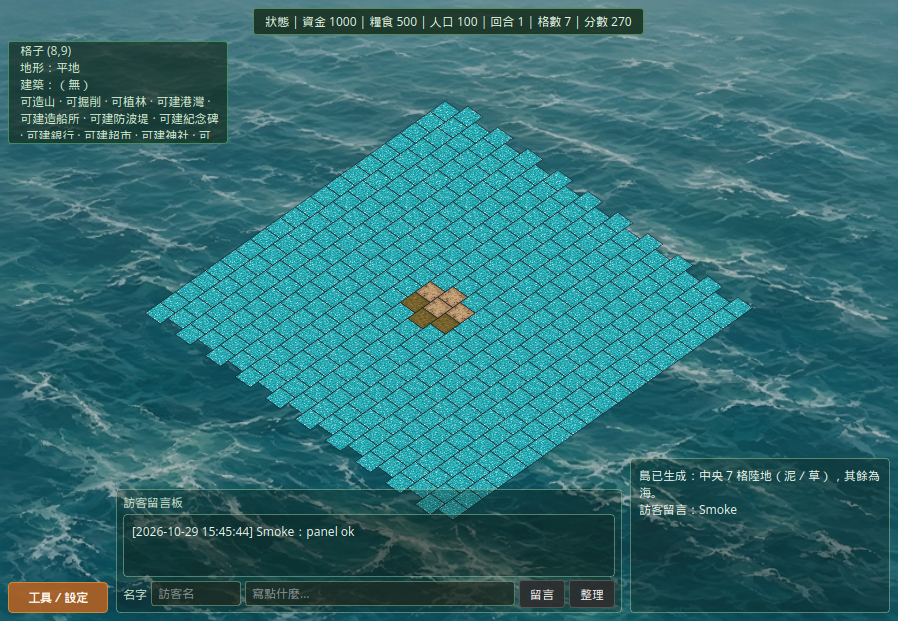
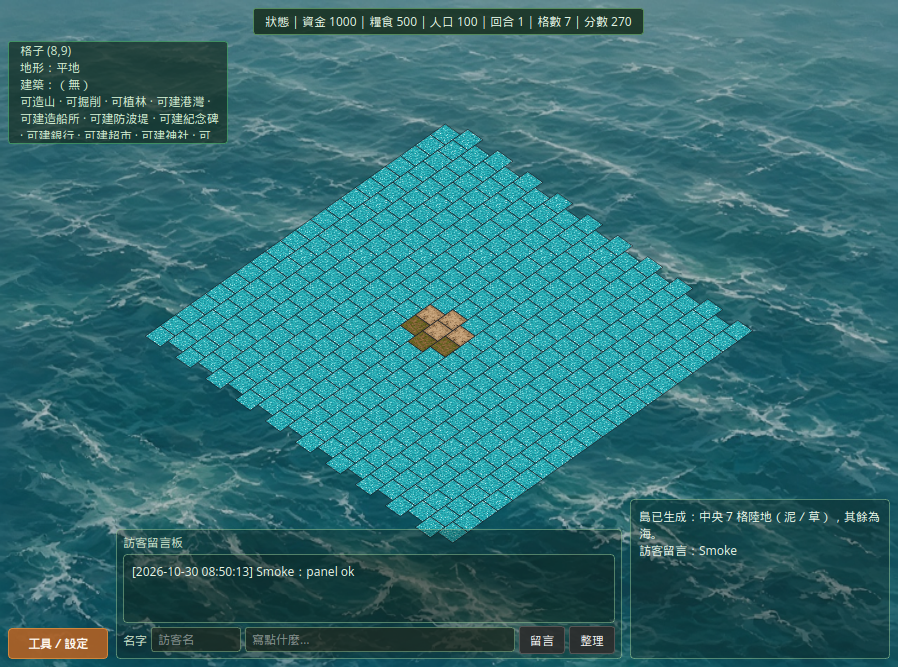
箱庭島：去掉開場解說列並修正工具鈕初始位置
移除頂部「點選格子…」說明橫幅；工具／設定改以 isHidden() 排版並在 showEvent 重算，避免首次開窗停在左上角。

diff --git a/hakoniwa/dialog.py b/hakoniwa/dialog.py
@@ -14,7 +14,7 @@ from pathlib import Path
 from typing import Any, Dict, List, Optional, Tuple
 
 from PySide6.QtCore import Qt, QEvent
-from PySide6.QtGui import QKeySequence, QShortcut, QResizeEvent
+from PySide6.QtGui import QKeySequence, QShortcut, QResizeEvent, QShowEvent
 from PySide6.QtWidgets import (
     QDialog,
     QFrame,
@@ -262,6 +262,12 @@ class HakoniwaMapHud(QWidget):
         super().resizeEvent(event)
         self._layout_overlays()
 
+    def showEvent(self, event: QShowEvent) -> None:  # noqa: N802
+        # Parent show can leave overlay geometry stale if resize did not fire
+        # after isHidden()-safe layout (tools btn would stick at 0,0).
+        super().showEvent(event)
+        self._layout_overlays()
+
     def eventFilter(self, watched, event):  # noqa: N802
         # Keep overlays above the map if something re-raises the map.
         if watched is self.map and event.type() == QEvent.Type.Show:
@@ -277,7 +283,8 @@ class HakoniwaMapHud(QWidget):
             self.tools_drawer,
             self.tools_btn,
         ):
-            if w.isVisible():
+            # isHidden() = explicit hide; isVisible() is false before ancestors show.
+            if not w.isHidden():
                 w.raise_()
 
     def _layout_overlays(self) -> None:
@@ -303,9 +310,12 @@ class HakoniwaMapHud(QWidget):
             margin, margin + status_h + 6, tile_w, tile_h
         )
 
-        # Tools button — bottom-left (hidden in tourism / read-only)
+        # Tools button — bottom-left (hidden in tourism / read-only).
+        # Use isHidden(), not isVisible(): during __init__ / pre-show layout,
+        # isVisible() is False for every child, so the btn stayed at (0,0)
+        # until the first click re-ran layout.
         btn_x = margin
-        if self.tools_btn.isVisible():
+        if not self.tools_btn.isHidden():
             self.tools_btn.adjustSize()
             btn_w = max(self.tools_btn.sizeHint().width() + 8, 100)
             btn_h = max(self.tools_btn.sizeHint().height(), 28)
@@ -319,7 +329,7 @@ class HakoniwaMapHud(QWidget):
         # Tools drawer — above the button, left side
         drawer_w = min(280, max(200, w // 3))
         drawer_h = min(h - 2 * margin - btn_h - 8, max(220, int(h * 0.62)))
-        if self.tools_drawer.isVisible():
+        if not self.tools_drawer.isHidden():
             self.tools_drawer.setGeometry(
                 margin,
                 max(margin, btn_y - 6 - drawer_h),
@@ -571,16 +581,8 @@ class HakoniwaIslandDialog(QDialog):
         root.setSpacing(4)
         root.addWidget(dp.make_draggable_title(self, "箱庭島"))
 
-        hint = QLabel(
-            "箱庭斜視 · 點選格子 → 左下「工具／設定」建設／地形／飛彈 · 下回合結算　"
-            "（色塊佔位）· 滾輪縮放 · 中／右鍵平移　"
-            "快捷鍵：1–9／B／C 工具 · T 下回合 · S 存檔 · Esc 取消選取 · 0 重置視圖"
-        )
-        hint.setObjectName("calcResult")
-        hint.setWordWrap(True)
-        root.addWidget(hint)
-
         # Map fills the body; all numeric/function UI is in-viewport HUD.
+        # (No top instruction banner — controls live in 工具／設定.)
         self.map = HakoniwaMapWidget(self.state)
         self.map.cell_clicked.connect(self._on_cell_clicked)
         self.hud = HakoniwaMapHud(self.map)

diff --git a/hakoniwa/smoke_test.py b/hakoniwa/smoke_test.py
@@ -1795,6 +1795,22 @@ def test_dialog_import_offscreen():
     assert dlg.server_url.parent() is dlg.hud.settings_body
     assert dlg.conn_status.parent() is dlg.hud.settings_body
     assert not dlg.hud.tools_drawer.isVisible()
+    # No top instruction banner (「點選格子…」/ shortcut strip) on open.
+    from PySide6.QtWidgets import QLabel
+
+    banner_bits = ("點選格子", "快捷鍵：", "滾輪縮放")
+    for lab in dlg.findChildren(QLabel):
+        t = lab.text() or ""
+        assert not any(b in t for b in banner_bits), t
+    # Tools button geometry is correct even before the dialog is shown
+    # (isHidden()-based layout; was stuck at top-left with isVisible()).
+    assert not dlg.hud.tools_btn.isHidden()
+    btn_geo = dlg.hud.tools_btn.geometry()
+    assert btn_geo.y() >= dlg.hud.height() // 2, (
+        btn_geo,
+        dlg.hud.size(),
+    )
+    assert btn_geo.x() <= 16, btn_geo
     # No selection → cell tools disabled；誘致不需選格（資金足夠時可點）.
     dlg._refresh_toolbar()
     for key, btn in dlg.tool_buttons.items():
@@ -1821,6 +1837,12 @@ def test_dialog_import_offscreen():
     dlg.resize(960, 780)
     dlg._refresh_ui()
     app.processEvents()
+    # After show: tools button still bottom-left without needing a click.
+    btn_geo = dlg.hud.tools_btn.geometry()
+    assert btn_geo.y() >= dlg.hud.height() - btn_geo.height() - 24, (
+        btn_geo,
+        dlg.hud.size(),
+    )
     status_h = dlg.stats.height()
     line_h = dlg.stats.fontMetrics().height()
     assert status_h <= line_h + 16, (status_h, line_h, dlg.stats.text())
